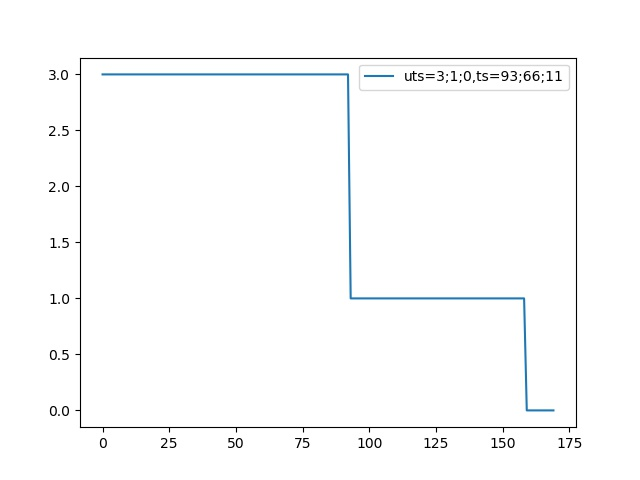
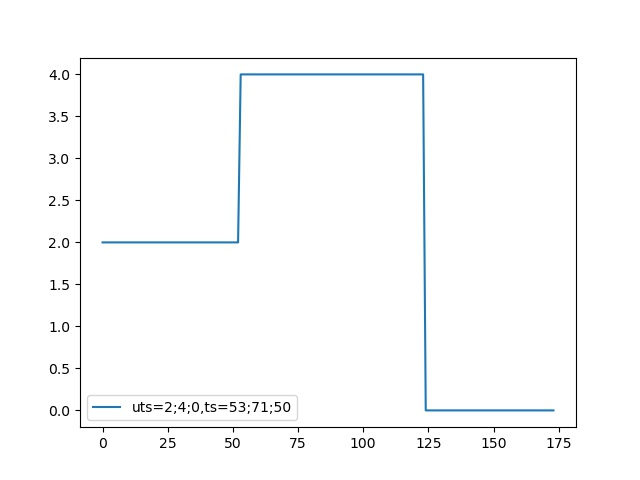
Update: fix Bayesian_analysis into nd

diff --git a/Simulations/Simulation.py b/Simulations/Simulation.py
@@ -16,6 +16,7 @@ import utility_functions.plot_figures as plotfgs
 import utility_functions.convert_data as cnvdata
 import Simulations.Binary_stat_hypothesis_testing_1d as BstatHT1d
 import E2Etest.SM_generator_1d as SMGen1d
+import E2Etest.SM_generator_nd as SMGennd
 import E2Etest.System_setup_generator as SSGen
 import matplotlib.pyplot as plt
 
@@ -29,17 +30,32 @@ def simulation(SM,x0,uts,ts,ut,trials):
         u_td = [u_T,u_D]
         u_T_D.append(u_td)
     return u_T_D
-def verification(num):
-    dx = 1
+def verification(num, mode):
+    
     Arange = [1,1]
     Brange = [0,2]
     Hrange = [0,2]
     Qrange = [0,2]    
     Rrange = [0,2]
-    System_models = SMGen1d.SM_generator_1d(num,Arange,Brange,Hrange,Qrange,Rrange)
-    #As,Hs,Bs,Qs,Rs,
-    T,uts,ts,ut,trials,x0 = SSGen.System_setup_generator()
-    SM_num = len(System_models[0])
+    
+    if mode == "1d":
+        dx = 1
+        System_models = SMGen1d.SM_generator_1d(num,Arange,Brange,Hrange,Qrange,Rrange)
+        #As,Hs,Bs,Qs,Rs,
+        T,uts,ts,ut,trials,x0 = SSGen.System_setup_generator()
+
+    elif mode == "nd": 
+        MRange = [0,6]
+        nHy = 5
+        nd = 4
+        dx = nd
+        du = nd
+        dz = 1 
+        System_models = SMGennd.SM_generator_nd(dx,dz,du,Arange,Brange,Hrange,Qrange,Rrange,num)
+        
+        T,uts,ts,ut,trials,x0 = SSGen.System_setup_generator_nd(nHy,nd,MRange)
+        
+    SM_num = len(System_models[0]) #SM = [As,Bs,Hs,Qs,Rs]; As = []
 
     for i in range(SM_num):
         A = System_models[0][i]
@@ -54,16 +70,18 @@ def verification(num):
         for j in range(len(u_T_D)):
             uD = u_T_D[j][1]
             u_D.append(uD)
-        
+        print ("sucess once ")
         plt.title('A=' + '%.2f' % A + '; B=' + '%.2f' % B + '; H=' + '%.2f' % H + '; Q=' + '%.2f' % Q + '; R=' + '%.2f' % R)
         plt.hist(u_D, density=0, facecolor="blue", edgecolor="black", alpha=1.0)
         plt.ylabel("frequency")
         plt.xlabel('categories')
         fig_name1 = './figs/simulation_figs/' + str(i) + '_u_T_D.jpg'
         plt.savefig(fig_name1)
-        plt.close()
+        #plt.close()
 if __name__ == '__main__':
-    verification(1)
+    
+    mode = "nd" #1d/nd
+    verification(1, mode)
 
     """
     dx = 1

diff --git a/Simulations/Simulator.py b/Simulations/Simulator.py
@@ -62,6 +62,7 @@ class Simulator_1t(object):
         # process noise
         #self.process_noise = self.convert_var2noise(self.process_var)
         self.process_noise = self.multi_noise(self.process_var)
+
         ut = np.dot(self.B,self.ut) +  self.process_noise
         self.x =np.dot(self.A,self.x)  + np.dot(ut, dt)
     def sensing(self):
@@ -128,9 +129,9 @@ def Simulator(SM,x0,ut_sq):
             xzs_new = [sim_1n.transfer_and_sense()]
             yt,zt = seperate_x_z(xzs_new)
 
-            if yt[0][0] >= 1000000 or yt[0][0] <= -1000000 :
-                yt[0][0] = yt[0][0]/1000000
-                zt[0][0] = zt[0][0]/1000000
+            #if yt[0][0] >= 1000000 or yt[0][0] <= -1000000 :
+            #    yt[0][0] = yt[0][0]/1000000
+            #    zt[0][0] = zt[0][0]/1000000
 
             y.append(yt[0])
             z.append(zt[0])

diff --git a/Estimator/Bayesian_analysis.py b/Estimator/Bayesian_analysis.py
@@ -18,8 +18,14 @@ def Bayesian_analysis(SM,ut,Sigma,estimates,measurements):
     S = np.dot(np.dot(A,Sigma_t),A.T)+Q
     Sigma_ut_zt01 = np.dot(np.dot(H,S),H.T)+R
     
-    mean_ut_zt = [np.dot(H,B)*ut[0],np.dot(H,B)*ut[1]]
-    Sigma_ut_zt = [Sigma_ut_zt01,Sigma_ut_zt01]
+    mean_ut_zt = []
+    Sigma_ut_zt = []
+    
+    for i in range(len(ut))
+        mean_ut_zt.append(np.dot(H,B) * ut[i])
+        Sigma_ut_zt.append(Sigma_ut_zt01)
+    #mean_ut_zt = [np.dot(H,B)*ut[0],np.dot(H,B)*ut[1]]
+    #Sigma_ut_zt = [Sigma_ut_zt01,Sigma_ut_zt01]
     return ut_zt,mean_ut_zt,Sigma_ut_zt
 
     

diff --git a/E2Etest/System_setup_generator.py b/E2Etest/System_setup_generator.py
@@ -20,9 +20,14 @@ def System_setup_generator():
 
 def System_setup_generator_nd(nHy,nd,MRange):
     uts = GenMean(nHy,nd,MRange)
-    ts = [100,1]
-    T = ts[0] + ts[1]
+    ts = []
+    for _ in range(nHy):
+        ts.append(int(np.random.randint(20,50,size=1)))
+    #ts = [100,1]
+    #T = ts[0] + ts[1]
+    T = sum(ts)
     ut = uts
+
     trials = 1000   
     dx = nd
     x0 = np.random.uniform(0, 0, (dx,1))

diff --git a/Estimator/Decision_making.py b/Estimator/Decision_making.py
@@ -15,6 +15,7 @@ def Decision_making(ut,ut_zt,mean_ut_zt,Sigma_ut_zt):
     mean1 = mean_ut_zt[1]
     ut0 = ut[0]
     ut1 = ut[1]
+    print("ut is ", ut)
     pdf_H0 = multivariate_normal(mean=mean0,cov=Sigma_ut_zt0).pdf(ut_zt) 
     pdf_H1 = multivariate_normal(mean=mean1,cov=Sigma_ut_zt1).pdf(ut_zt) 
     if pdf_H0 >= pdf_H1:

diff --git a/Simulations/Generate_seq_u.py b/Simulations/Generate_seq_u.py
@@ -14,7 +14,7 @@ def generate_sequential_ut(uts,ts):
     for i in range(un):
         t = ts[i]
         for j in range(t):
-            ut_sq.append(uts[i])    
+          ut_sq.append(uts[i])    
     return ut_sq
 
 def fig_verification(uts,ts,i):    

diff --git a/Sensor_Planner/Sensor_planner.py b/Sensor_Planner/Sensor_planner.py
@@ -100,10 +100,6 @@ if __name__ == '__main__':
     Range = [0,5]
     means,Sigmas = InGen_nd(nHy,nd,Range)
     
-    
-    
-    
-   
     n_Hy = len(means)
     n_dim = np.size(means[0])
     

diff --git a/temp_note.md b/temp_note.md
@@ -9,6 +9,8 @@
    multi_nd: u (event) has multi hypothesis and u is n dimentions (or x contains n sensors)
 
    In code, multi-hypothesis of u event means there are multiple distributions list(miu_i, sigma_i), n-d means the dimention of u is n: u.ndim=(n,)
+   
+   TODO:: ts uts ts  mHy=[nd1, nd2, nd...], nd =range()
 
 
    ### Quick notes of Structure of the code:
@@ -19,7 +21,7 @@
     
     - In this code, we generate numbers of System Model (SM) and each SM with numbers of trials. In each trials, we run the SM for T timestep and use the sequence of data of the T period as our test data.
     
-    - All system model (SM) parameters are set in E2Etest/System_setup_generator.py. [nHy = multiple hypothesis；ts=[T, n]] 
+    - All system model (SM) parameters are set in E2Etest/System_setup_generator.py. (nHy = multiple hypothesis；ts=[T, n])
     
     - All system models were generated in E2Etest/SM_generator_nd.py [ABHQR of SM)
 
@@ -29,7 +31,7 @@
 
     1. In etimator part (correponding to Simulations file):
        Currently, it is only binary_1d esimator. To make it into binary_nd, we need to modify two functions: Estimator.Decision_making and Estimator.Bayesian_analysis; To turn it into multi_nd, we need to change SM_generator_1d and modify the above two functions.
-    2. In sensor planner part (corresponding to Sensor_planner file):
+    2. [Fixed] In sensor planner part (corresponding to Sensor_planner file):
        Currently, Sensor_planner.py lacks the last multi-hypothesis-test function.
     3. End-to-end test:
        Currently, we almost finished the code of estimator (namely simulation) and sensor planner. But we need to realize the end-to-end test to combine them into a whole.
@@ -37,10 +39,14 @@
 
    ### Bugs need to discuss with Zhaoliang:
 
-   1. The function mul_Hyp_test_nd in Sensor_planner/mul_hypothesis_testing_nd.py may exist bugs. Because the output of Prob_errors is not a (4,) vector, it is the (nHy, nHy) matrix.
+   1. [Solved] The function mul_Hyp_test_nd in Sensor_planner/mul_hypothesis_testing_nd.py may exist bugs. Because the output of Prob_errors is not a (4,) vector, it is the (nHy, nHy) matrix. 
 
-   2. Error_prob_cal_oldV and Error_pro_cal in  binary_HT_nd/Error_prob_cal.py
+      	->It's correct.
 
-   3. Complile error.（solved)
+   2. [Solved] Error_prob_cal_oldV and Error_pro_cal in  binary_HT_nd/Error_prob_cal.py 
+
+      	->Error_prob_cal_oldV is the method to find the intersection lamda; Error_pro_cal  is based on sampling to find the intersection point.
+
+   3. [Fixed] Complile error.
 
    4. Question: how to plot in Spyder. It randomly came out the plot figures.
